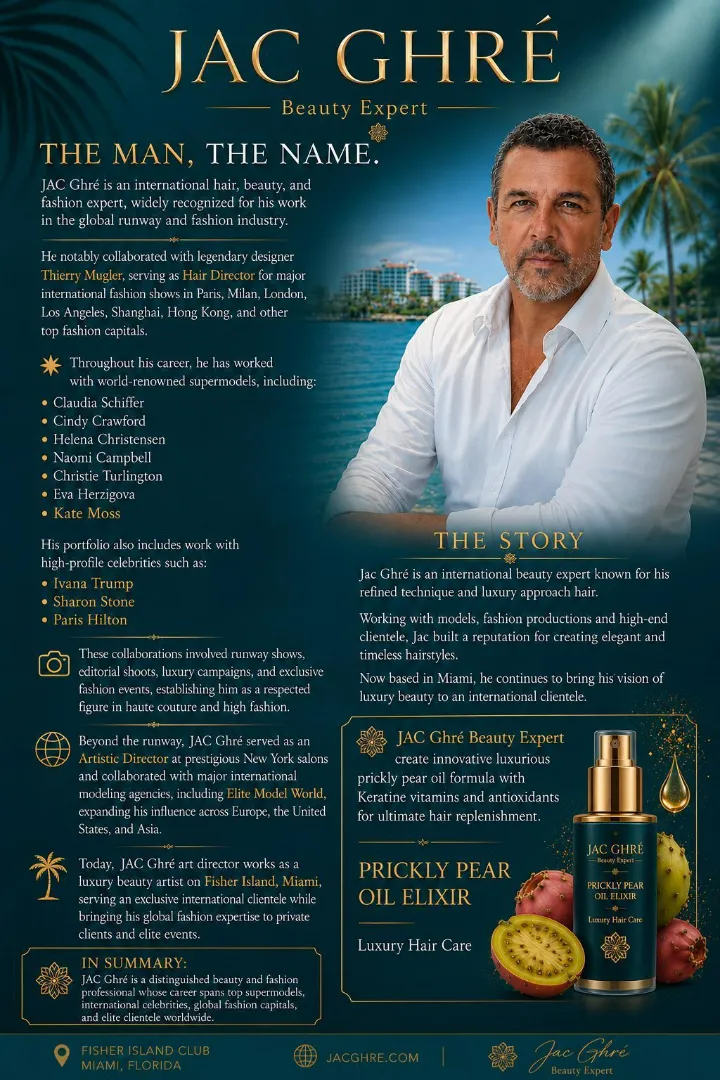
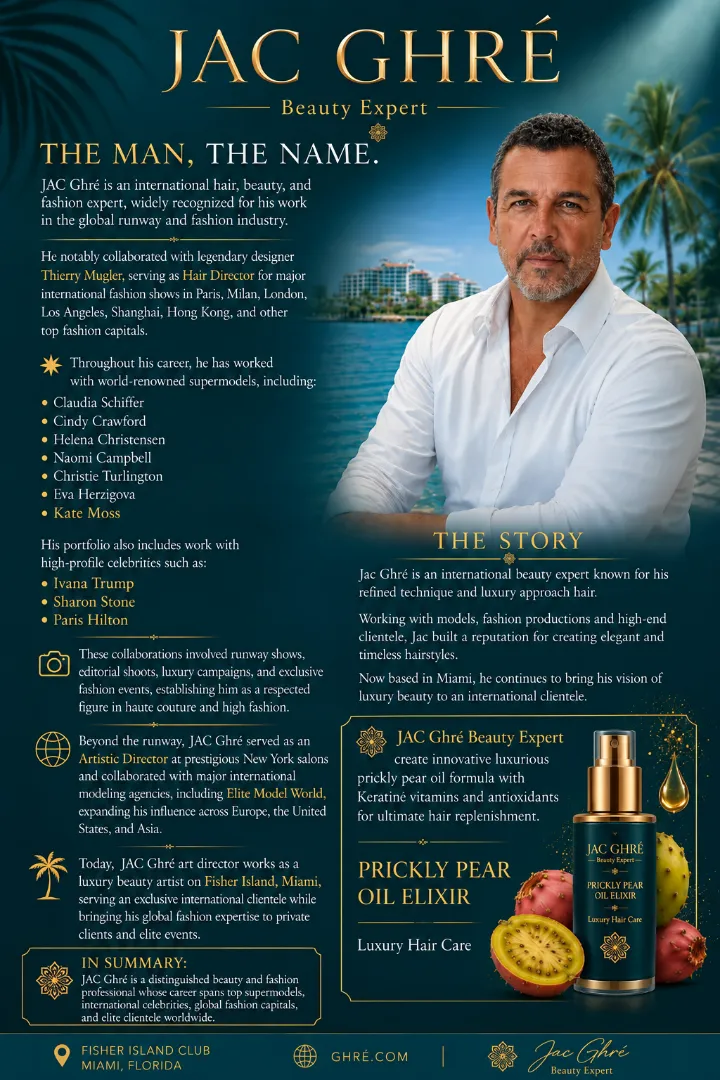
fix some new changes

diff --git a/src/components/founder/FounderHero.tsx b/src/components/founder/FounderHero.tsx
@@ -1,9 +1,16 @@
-import React from 'react';
-import { motion } from 'motion/react';
-import { Sparkles, Scissors, MapPin, Award, Globe, ShieldCheck } from 'lucide-react';
-import { CAMPAIGN_IMAGES } from '../../data/products';
-import { GoldEmblem } from '../ui/GoldEmblem';
-import { BrandLogo } from '../ui/BrandLogo';
+import React from "react";
+import { motion } from "motion/react";
+import {
+  Sparkles,
+  Scissors,
+  MapPin,
+  Award,
+  Globe,
+  ShieldCheck,
+} from "lucide-react";
+import { CAMPAIGN_IMAGES } from "../../data/products";
+import { GoldEmblem } from "../ui/GoldEmblem";
+import { BrandLogo } from "../ui/BrandLogo";
 
 export const FounderHero: React.FC = () => {
   return (
@@ -13,7 +20,7 @@ export const FounderHero: React.FC = () => {
 
       <div className="max-w-7xl mx-auto px-4 sm:px-6 lg:px-8 relative z-10">
         {/* Top Eyebrow & Brand Header */}
-        <div className="text-center max-w-3xl mx-auto mb-12">
+        <div className="text-center max-w-3xl mx-auto mb-12 flex flex-col items-center">
           <div className="inline-flex items-center gap-2 px-4 py-1.5 bg-[#006073] border border-[#D4AF37]/50 mb-4 shadow-lg">
             <Award className="w-3.5 h-3.5 text-[#D4AF37]" />
             <span className="text-[11px]  font-bold tracking-[0.3em] text-[#F3E5AB] uppercase">
@@ -24,6 +31,11 @@ export const FounderHero: React.FC = () => {
           <h1 className=" text-4xl sm:text-6xl lg:text-7xl font-bold tracking-[0.1em] text-[#FBF9F3] uppercase">
             JAC GHRÉ
           </h1>
+          {/* <img
+            src="/gallery/founder/founder_name.png"
+            alt="Jac GHRÉ"
+            className="lg:h-40 h-20"
+          /> */}
           <p className=" text-xl sm:text-lg tracking-[0.35em] text-[#D4AF37] uppercase font-semibold mt-1">
             THE MAN. THE NAME.
           </p>
@@ -94,11 +106,16 @@ export const FounderHero: React.FC = () => {
             </div>
 
             <p className="font-outfit text-xl sm:text-base text-[#C5D9DE] font-light leading-relaxed">
-              <strong>JAC Ghré</strong> is an international hair, beauty, and fashion expert, widely recognized for his visionary work in the global runway and fashion industry.
+              <strong>JAC Ghré</strong> is an international hair, beauty, and
+              fashion expert, widely recognized for his visionary work in the
+              global runway and fashion industry.
             </p>
 
             <p className="font-outfit text-xl sm:text-base text-[#C5D9DE] font-light leading-relaxed">
-              He notably collaborated with legendary designer <strong className="text-[#F3E5AB]">Thierry Mugler</strong>, serving as <strong>Hair Director</strong> for major international fashion shows and top fashion capitals.
+              He notably collaborated with legendary designer{" "}
+              <strong className="text-[#F3E5AB]">Thierry Mugler</strong>,
+              serving as <strong>Hair Director</strong> for major international
+              fashion shows and top fashion capitals.
             </p>
 
             {/* Quick Stats Grid */}
@@ -133,11 +150,15 @@ export const FounderHero: React.FC = () => {
             <div className="pt-4 border-t border-[#D4AF37]/25 flex flex-wrap items-center justify-between gap-4 text-xs  text-[#8EAAB0]">
               <div className="flex items-center gap-2">
                 <MapPin className="w-4 h-4 text-[#D4AF37]" />
-                <span className="tracking-wider text-[#F3E5AB]">PRIVATE CLIENT ATELIER</span>
+                <span className="tracking-wider text-[#F3E5AB]">
+                  PRIVATE CLIENT ATELIER
+                </span>
               </div>
               <div className="flex items-center gap-2">
                 <Globe className="w-4 h-4 text-[#D4AF37]" />
-                <span className="tracking-wider text-[#D4AF37] font-bold">GHRÉ.COM</span>
+                <span className="tracking-wider text-[#D4AF37] font-bold">
+                  GHRÉ.COM
+                </span>
               </div>
             </div>
           </motion.div>

diff --git a/src/components/layout/Footer.tsx b/src/components/layout/Footer.tsx
@@ -504,14 +504,14 @@ export const Footer: React.FC = () => {
             BOTTOM BAR
         ========================================================= */}
 
-        <div className="pt-8 flex flex-col sm:flex-row items-center justify-between text-xs gap-4 text-[#8FAAB0]">
+        <div className="pt-8 flex flex-col sm:flex-row items-center justify-between text-sm gap-4 text-[#8FAAB0]">
 
           <p>
             © {new Date().getFullYear()} GHRÉ & JAC GHRÉ BEAUTY.
             ALL RIGHTS RESERVED.
           </p>
 
-          <div className="flex items-center gap-6 text-[11px]  tracking-wider uppercase">
+          <div className="flex items-center gap-6 text-sm tracking-wider uppercase">
 
             <button
               onClick={() => navigateToPage('about-founder')}

diff --git a/src/components/home/BrandPhilosophy.tsx b/src/components/home/BrandPhilosophy.tsx
@@ -161,8 +161,8 @@ export const BrandPhilosophy: React.FC = () => {
                   />
                 </div> */}
                 <div>
-                  <img src="/images/logo-light.png" alt=""
-                  width={500} />
+                  <img src="/logo.png" alt=""
+                  width={300} />
                 </div>
 
               </div>
